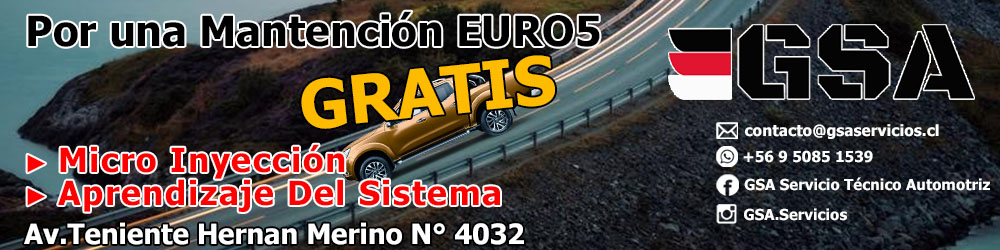
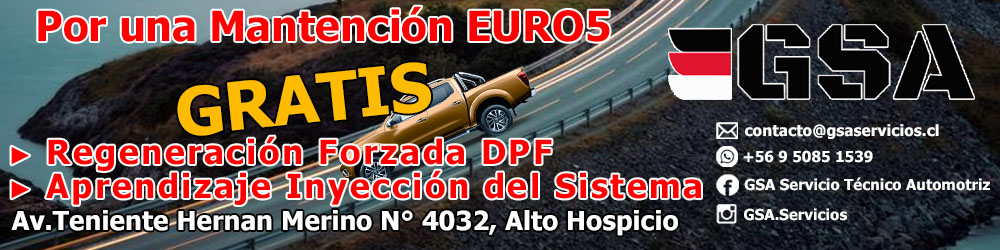
post formateo, se cambio img promocion y se agrego css.min

diff --git a/css/estilos.min.css b/css/estilos.min.css
@@ -1,0 +1,1 @@
+body{margin:0;padding:0;font-family:'Source Sans Pro',sans-serif;box-sizing:border-box;position:relative}.btnInicio{position:fixed;bottom:0;right:0;margin:0 10px 10px 0;height:50px;width:50px;border-radius:100%;background:#000;border:0;color:#fff;z-index:2}.btnInicio a{color:#fff;bottom:0;right:0;height:100%;width:100%;font-size:25px;text-decoration:none}figure{margin:0}.header{background:#d6d5d5;margin:auto;color:#000;display:flex;justify-content:space-around;align-items:center;height:auto;flex-wrap:wrap}.list-info{height:auto}.list-info ol{display:flex;align-items:center;flex-wrap:wrap;height:inherit;margin:0;padding:0}ol,ul{list-style:none}.list-info a{display:flex;letter-spacing:-.5px;padding:0 30px 0 0;font-size:15px;font-family:Verdana,Geneva,Tahoma,sans-serif;height:inherit}.header-image{margin:0;height:inherit;display:flex;align-items:center}.menu{background:#000;color:#fff;height:60px;max-height:auto;margin:0 auto}.menu ol{height:inherit;justify-content:space-around;display:flex;align-items:center;flex-wrap:wrap;margin:0 auto;padding:0}.menu ol li{height:inherit}.menu a{text-decoration:none;color:#fff;font-size:14px;height:inherit;letter-spacing:2px;display:flex;align-items:center;justify-content:center;margin:0 auto;font-family:Verdana,Geneva,Tahoma,sans-serif}.menu a:hover{color:#fff;transition:.4s}.hero{display:flex;justify-content:center;max-width:2000px;width:100%;height:auto;max-height:900px;margin:0 auto;position:relative;overflow:hidden}.hero img{max-width:100%}.slide{display:flex;transform:translate3d(0,0,0);transition:all 600ms;animation-name:autoplay;animation-duration:15s;animation-direction:alternate;animation-fill-mode:forwards;animation-iteration-count:infinite}.item-slide{position:relative;display:flex;flex-direction:column;flex-shrink:0;flex-grow:0;max-width:100%}.pagination{position:absolute;bottom:20px;left:0;display:flex;flex-wrap:wrap;align-items:center;justify-content:center;width:100%}.pagination-item{display:flex;flex-direction:column;align-items:center;border:2px solid #fff;width:26px;height:26px;border-radius:4px;overflow:hidden;cursor:pointer;background:rgba(255,255,255,0.5);margin:0 10px;text-align:center;transition:all 300ms}.pagination-item:hover{transform:scale(2)}.pagination-item img{display:inline-block;max-width:none;height:100%;transform:scale(1);opacity:0;transition:all 300ms}.pagination-item:hover img{opacity:1;transform:scale(1)}input[id="1"]:checked ~ .slide{animation:none;transform:translate3d(0,0,0)}input[id="1"]:checked ~ .pagination .pagination-item[for="1"]{background:#fff}input[id="2"]:checked ~ .slide{animation:none;transform:translate3d(calc(-100% * 1),0,0)}input[id="2"]:checked ~ .pagination .pagination-item[for="2"]{background:#fff}input[id="3"]:checked ~ .slide{animation:none;transform:translate3d(calc(-100% * 2),0,0)}input[id="3"]:checked ~ .pagination .pagination-item[for="3"]{background:#fff}@keyframes autoplay{33%{transform:translate3d(calc(-100% * 0),0,0)}66%{transform:translate3d(calc(-100% * 1),0,0)}100%{transform:translate3d(calc(-100% * 2),0,0)}}.servicios-title{margin:auto;text-align:center;font-size:50px;text-transform:uppercase;font-family:'Fjalla One',sans-serif;letter-spacing:2px}.section-services{display:flex;background:radial-gradient(white 40%,#d6d5d5)}.container-servicios{display:flex;width:90%;justify-content:space-around;margin:0 auto;flex-wrap:wrap}.services-list{display:flex;align-items:center;width:100%;max-width:330px}.services-image{border:1px solid #000;margin:30px 15px 30px 0;border-radius:100%;display:flex}.services-list h3:hover{color:red;cursor:pointer;transition:.4s}.mapa-gsa{height:440pX;width:100%}.container-promotion{width:auto;text-align:center}.container-promotion img{max-width:100%}.proveedores{width:100%;max-width:2000px;height:200px;margin:0 auto;background:#D6D5D5}.container-gsa{display:flex;align-items:center;flex-direction:column;max-width:2000px;width:100%;background:#D6D5D5;margin:0 auto}.gsa{width:70%;display:flex;justify-content:center;margin:15px auto;flex-wrap:wrap}.gsa-nosotros{width:50%;background:#fff;display:flex;align-items:center;border-top:5px solid #000;min-width:320px;box-shadow:5px 10px 8px #888}.gsa-nosotros p{font-size:20px;text-align:left;margin:10px}.gsa-imagecontainer{width:50%;display:flex;border-top:5px solid #000;justify-content:center;flex-direction:column;background:#999898;align-items:center;min-width:320px;box-shadow:5px 10px 8px #888}.gsa-imagecontainer img{width:100%;max-width:250px;margin-bottom:0}.gsa-imagecontainer h3{margin-top:0}.gsa-image{margin:15px 0}.gsa-mision{width:70%;height:auto;background:#fff;box-shadow:5px 10px 8px #888;border-top:5px solid red;display:flex;justify-content:center;align-items:center;flex-direction:column;margin:15px auto}.gsa-mision-info{padding:0 40px 20px;margin:0;font-size:20px}.gsa-mision-title{font-size:35px;padding:0 auto}.gsa-mision-title p{margin:10px auto}.gsa-instalaciones{margin-bottom:20px;width:70%}.servicios-title2{margin:auto;text-align:center;font-size:50px;text-transform:uppercase;font-family:'Fjalla One',sans-serif;letter-spacing:2px;padding-bottom:20px}.instalaciones{display:flex;justify-content:space-between;align-items:center;flex-wrap:wrap}.instalaciones-img{height:90%;padding:20px;margin:0 auto}.instalaciones-img img{box-shadow:0 0 7px 1px #131212;max-width:550px;width:100%;height:100%;min-width:170px}.container-promotion{border-top:2px solid #000;max-width:2000px;margin:0 auto}.promotion img{max-width:100%}.slider::before{left:0;top:0}.slider::after{right:0;top:0;-webkit-transform:rotateZ(180deg);transform:rotateZ(180deg)}.slider{background:#fff;box-shadow:0 10px 20px -5px rgba(0,0,0,0.125);margin:0 auto;overflow:hidden;position:relative;width:100%;max-width:2000px}.slider::before,.slider::after{background:linear-gradient(to right,rgba(0,0,0,0.5) 1%,rgba(255,255,255,0) 100%);content:"";height:200px;position:absolute;width:100%;max-width:200px;min-width:50px;z-index:2}.slider .slide-track{-webkit-animation:scroll 40s linear infinite;animation:scroll 25s linear infinite;display:flex;width:calc(250px * 14)}@keyframes scroll{0%{-webkit-transform:translateX(0);transform:translateX(0)}100%{-webkit-transform:translateX(calc(-250px * 7));transform:translateX(calc(-250px * 7))}}.footer{background:radial-gradient(white 10%,#d6d5d5);color:#000}.footor-cont{display:flex;justify-content:space-around;align-items:center;flex-wrap:wrap;text-align:center;width:90%;margin:0 auto}.foot-div{display:flex;flex-direction:column;justify-content:center;align-items:center;height:90%;font-size:20px}.foot-div figure{margin:0}.foot-div img{width:100%;min-width:120px;max-width:400px}.foot-div h3{margin:0}.foot-divp{margin:10px}.container{margin:auto;max-width:2000px;flex:1;display:inherit;justify-content:inherit;align-items:inherit;height:inherit;flex-wrap:inherit}@media screen and (max-width: 1600px){.menu{background:#000}.menu a{color:#fff}}@media screen and (max-width: 1023px){.menu{background:#000}.menu a{color:#fff}.servicios-title{font-size:1.5em;background:#000;color:#fff}}@media screen and (max-width: 767px){.menu{background:#000}.menu a{color:#fff}.header{display:block}.header-image{display:block;text-align:center}.list-info ol{display:block}.header ol li{height:auto;padding-bottom:10px}.header a{justify-content:center;padding:0}.services-list img{max-width:40px}.section-services{padding:5px}.services-image{border:1px solid #000;margin:0 15px 0 0;border-radius:100%;display:flex;margin:5px}.services-list h3{font-size:10px}.services-list{border-bottom:.5px solid gray;margin:2px;max-width:250px}.container-promotion{border-top:none}.gsa-nosotros p{font-size:.7em}.gsa-mision{width:initial}.gsa-mision .gsa-mision-info{font-size:.7em}.gsa-mision-info{padding:0 20px 20px}.gsa{width:90%}.servicios-title2{font-size:1.5em;text-shadow:2px 2px 8px rgba(46,43,43,0.739);color:#000}.gsa-instalaciones{width:90%}.slider{background:#fff;box-shadow:0 10px 10px -5px rgba(0,0,0,0.125);margin:0 auto;overflow:hidden;position:relative;width:100%;max-width:2000px;border-radius:initial}.footer{background:radial-gradient(white 10%,#d6d5d5)}.foot-div{color:#000}.slide2 img{width:100%;max-width:300px;width:100%;max-width:300px}.slider::before,.slider::after{background:radial-gradient(to right,rgba(0,0,0,0.5) 0%,rgba(255,255,255,0) 50%);content:"";height:200px;position:absolute;width:100%;max-width:90px;min-width:50px;z-index:2}}@media screen and (max-width: 915px){.gsa{width:90%}}@media screen and (max-width: 480px){.menu{background:#000}.menu a{color:#fff}.header{display:block}.services-list img{max-width:40px}.services-image{border:1px solid #000;margin:0 15px 0 0;border-radius:100%;display:flex}.services-list h3{font-size:15px}.services-list{border-bottom:.5px solid gray}.container-promotion{border-top:none}.gsa-nosotros p{font-size:.7em}.gsa-mision{width:initial}.gsa-mision .gsa-mision-info{font-size:.7em}.gsa-mision-info{padding:0 20px 20px}.servicios-title2{font-size:1.5em;text-shadow:2px 2px 8px rgba(46,43,43,0.739);color:#000}.gsa-instalaciones{width:90%}.slider{background:#fff;box-shadow:0 10px 10px -5px rgba(0,0,0,0.125);margin:0 auto;overflow:hidden;position:relative;width:100%;max-width:1800px;border-radius:initial}.footer{background:radial-gradient(white 10%,#d6d5d5)}.foot-div{color:#000}}@media screen and (max-width: 320px){.services-list img{max-width:20px}.services-image{border:1px solid #000;margin:0 15px 0 0;border-radius:100%;display:flex}.services-list h3{font-size:15px}.slide2 img{width:100%;max-width:300px}}

diff --git a/index.html b/index.html
@@ -274,7 +274,8 @@
        
         
     </footer>
+    <link rel="stylesheet" href="css/estilos.min.css">
     <link href="https://fonts.googleapis.com/css?family=Fjalla+One|Source+Sans+Pro&display=swap" rel="stylesheet">
-    <link rel="stylesheet" href="css/css.css">
+   
 </body>
 </html>
